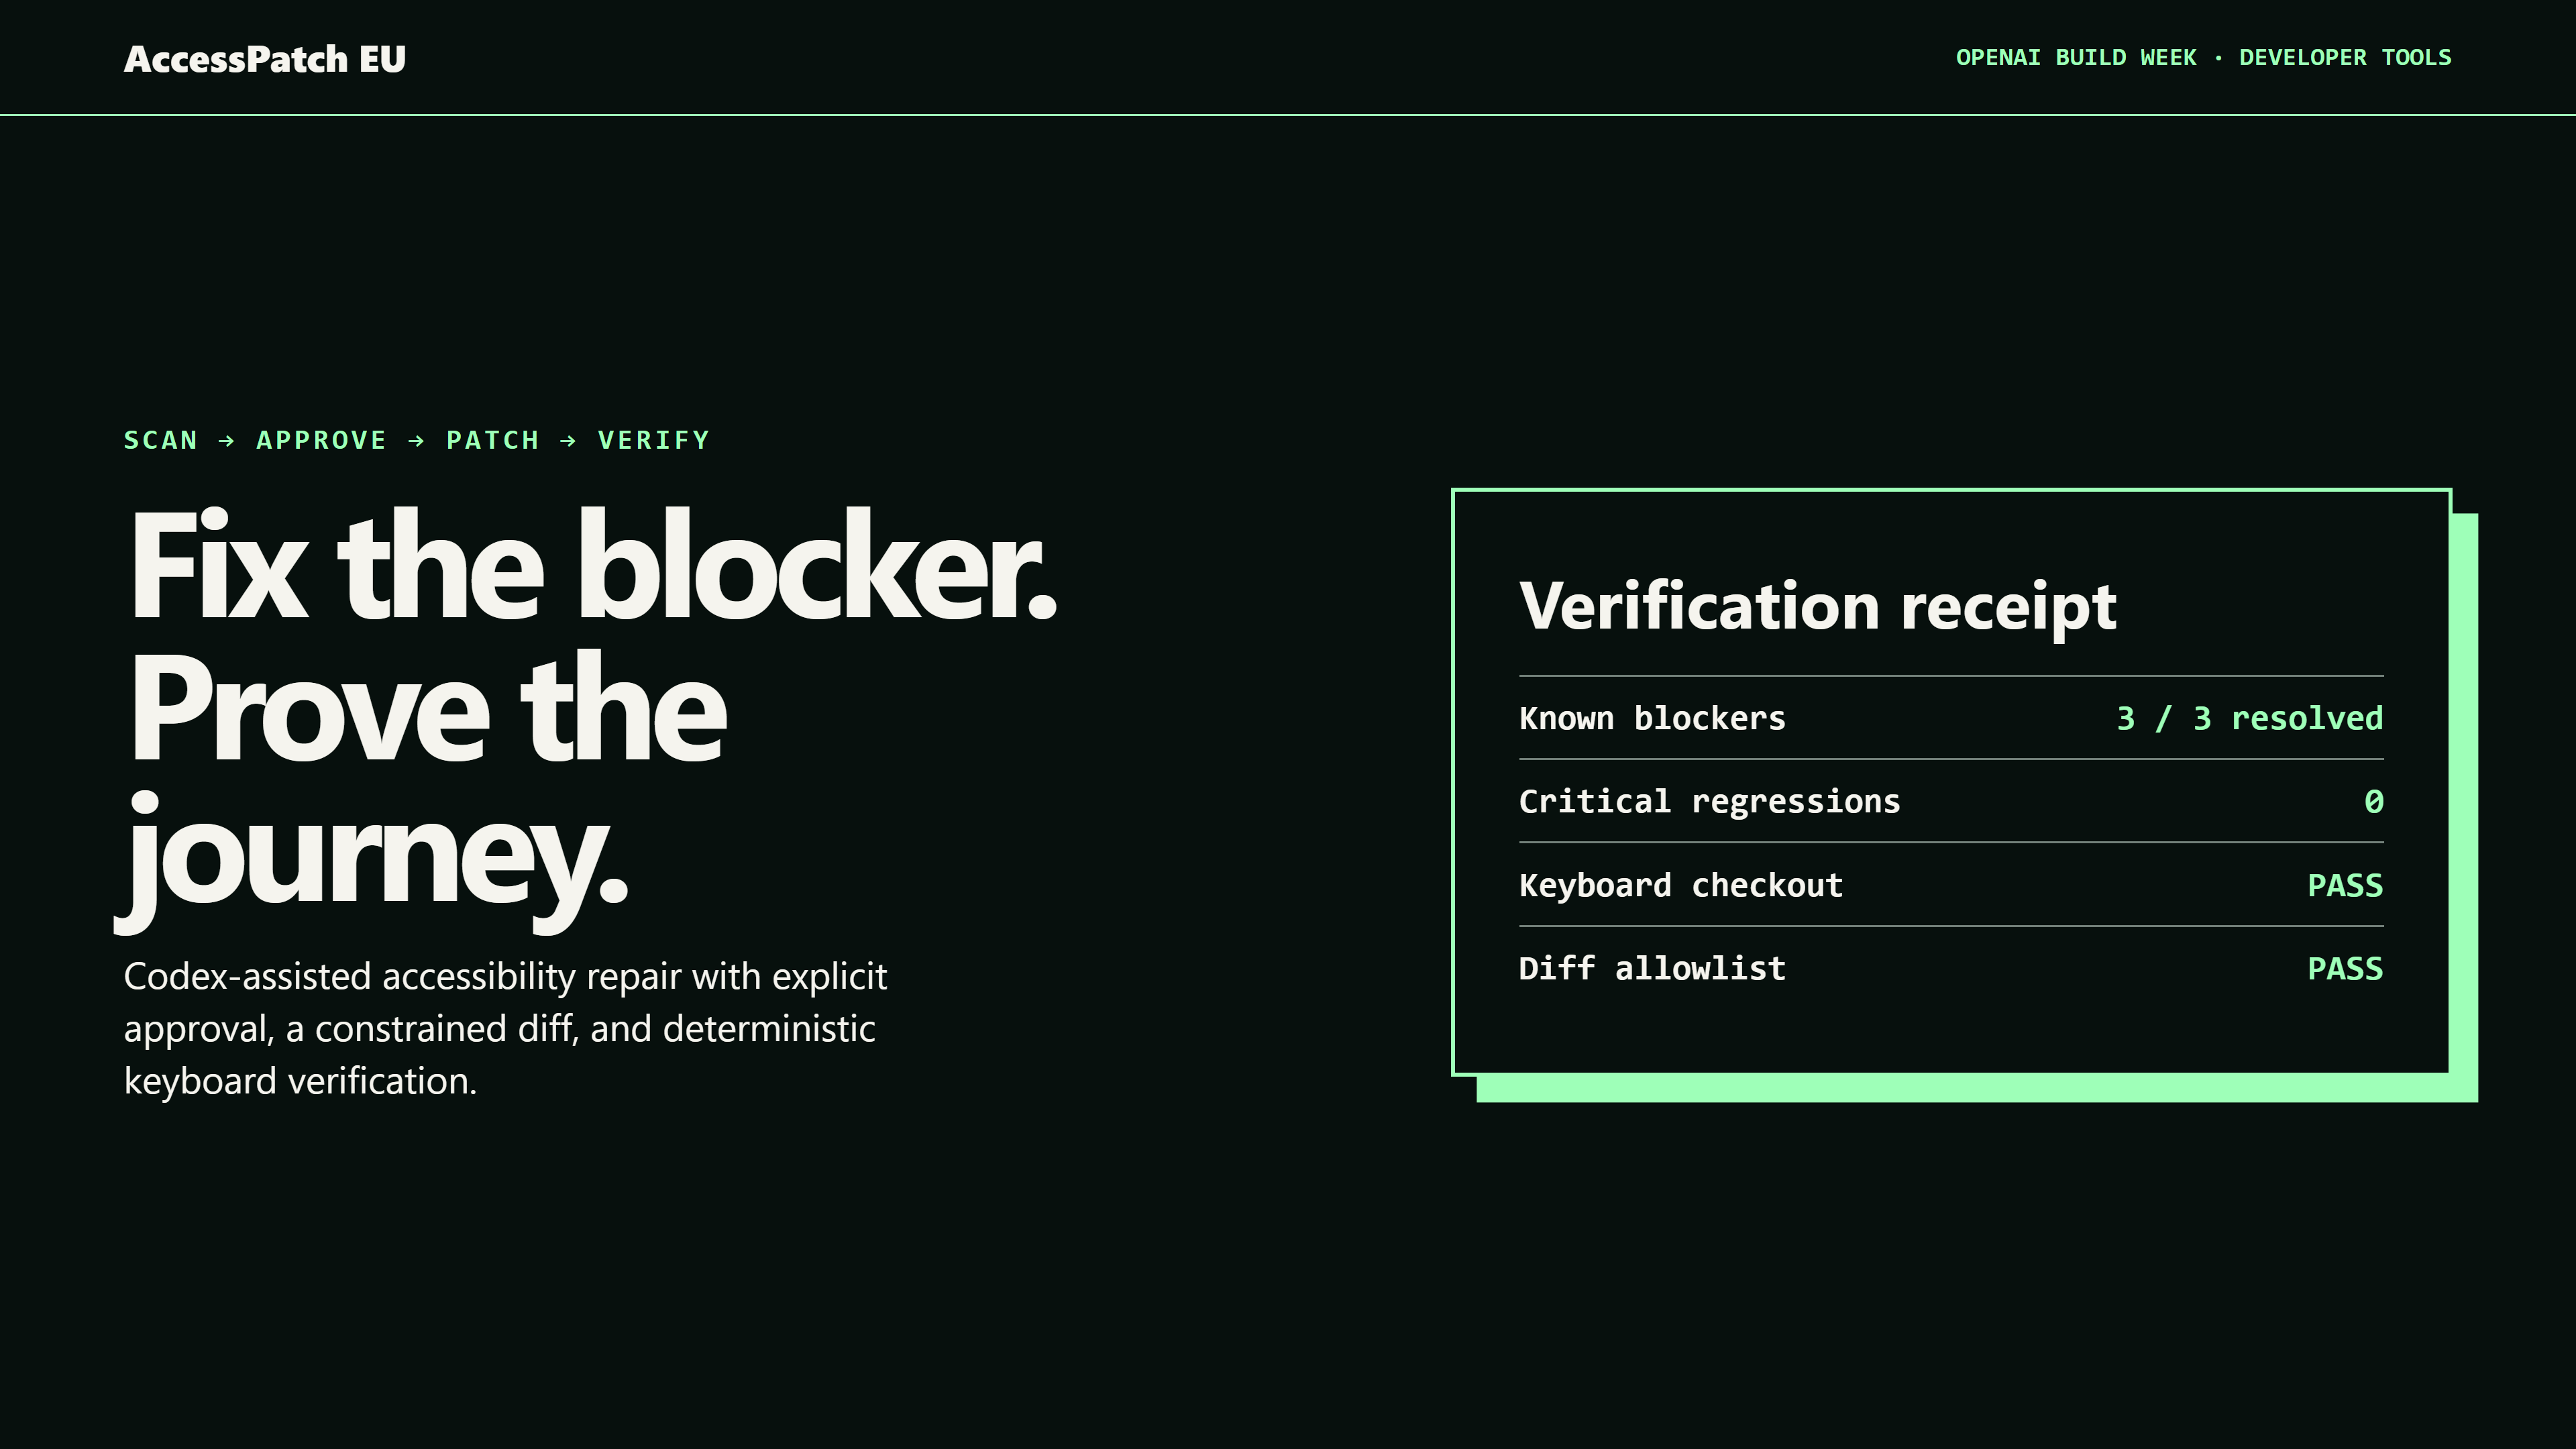
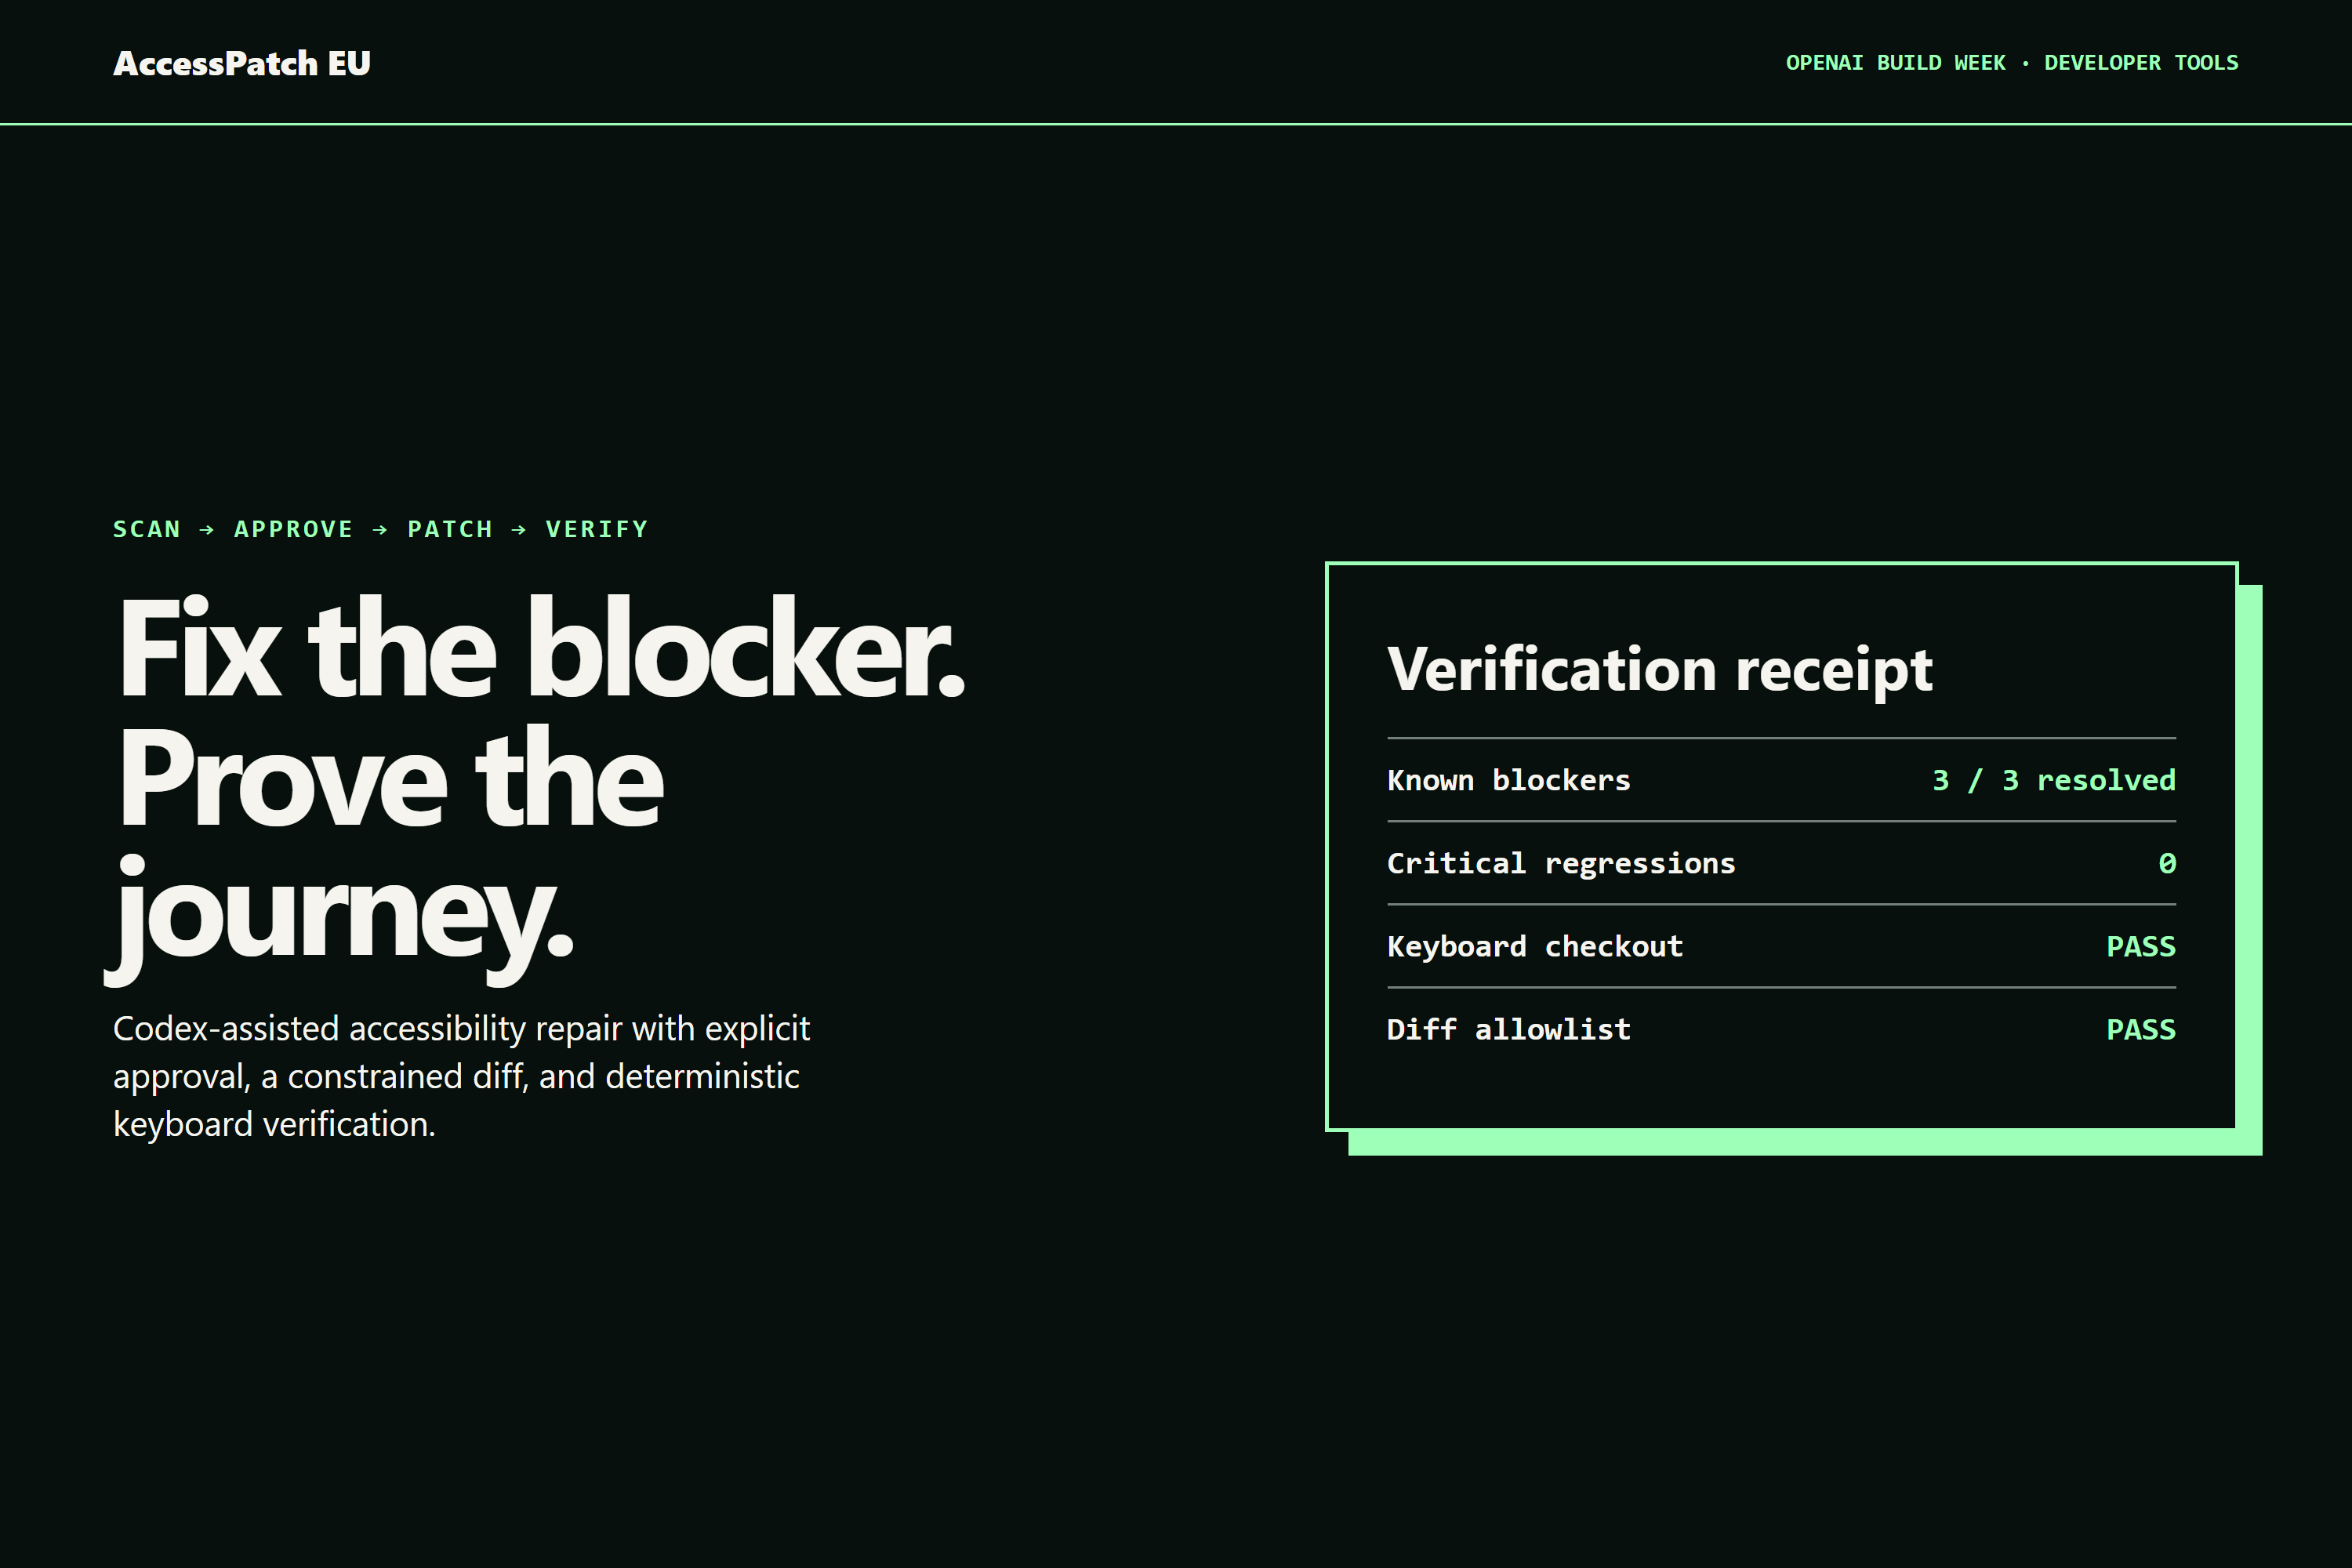
fix: harden submission preview and Linux CI

diff --git a/tests/unit/submission-check.test.ts b/tests/unit/submission-check.test.ts
@@ -95,4 +95,12 @@ Unchecked items still require the submitter's authenticated account.
       "Missing required artifact: submission/accesspatch-eu-demo.mp4",
     );
   });
+
+  it("requires the Devpost 3:2 thumbnail in the local submission package", async () => {
+    const root = await mkdtemp(path.join(os.tmpdir(), "accesspatch-submit-"));
+    roots.push(root);
+    expect(await collectSubmissionIssues(root)).toContain(
+      "Missing required artifact: submission/accesspatch-eu-thumbnail.png",
+    );
+  });
 });

diff --git a/tests/unit/paths.test.ts b/tests/unit/paths.test.ts
@@ -18,6 +18,13 @@ it("rejects a prefix collision beside the project root", () => {
 });
 
 it("rejects a path outside the project root", () => {
+  const outsideProject = path.resolve(PROJECT_ROOT, "..", "outside", "report.json");
+  expect(() =>
+    assertInsideProject(outsideProject),
+  ).toThrow(/outside project root/i);
+});
+
+it.runIf(process.platform === "win32")("rejects an absolute Windows path outside the project", () => {
   expect(() =>
     assertInsideProject("C:\\Users\\User\\Desktop\\outside\\report.json"),
   ).toThrow(/outside project root/i);

diff --git a/tests/e2e/media-contract.spec.ts b/tests/e2e/media-contract.spec.ts
@@ -48,7 +48,7 @@ test("@media submission media matches the Build Week delivery contract", async (
 
   const thumbnail = probe("submission/accesspatch-eu-thumbnail.png").streams[0];
   const thumbnailFallback = probe("submission/accesspatch-eu-thumbnail-1280x720.png").streams[0];
-  expect([thumbnail.width, thumbnail.height]).toEqual([3840, 2160]);
+  expect([thumbnail.width, thumbnail.height]).toEqual([3000, 2000]);
   expect([thumbnailFallback.width, thumbnailFallback.height]).toEqual([1280, 720]);
 
   const videoProbe = probe("submission/accesspatch-eu-demo.mp4");

diff --git a/tests/unit/docs-contract.test.ts b/tests/unit/docs-contract.test.ts
@@ -20,7 +20,7 @@ const requiredDocs = [
 ] as const;
 
 const claim =
-  "Two critical and one serious fixture blocker were resolved, no new serious or critical axe finding appeared, and the scripted keyboard checkout completed.";
+  "Two critical and one serious fixture blockers were resolved, no new serious or critical axe finding appeared, and the scripted keyboard checkout completed.";
 const limitation =
   "AccessPatch EU produces technical remediation evidence, not legal advice, certification, or a guarantee of EAA/WCAG compliance. AI-proposed patches require human review.";
 

diff --git a/tools/accesspatch/submission-check.ts b/tools/accesspatch/submission-check.ts
@@ -30,6 +30,7 @@ const REQUIRED_IMAGES = [
   ["submission/screenshots/02-evidence-pack.png", 1920, 1080],
   ["submission/screenshots/03-approved-source-diff.png", 1920, 1080],
   ["submission/screenshots/04-verified-before-after.png", 1920, 1080],
+  ["submission/accesspatch-eu-thumbnail.png", 3000, 2000],
   ["submission/accesspatch-eu-thumbnail-1280x720.png", 1280, 720],
 ] as const;
 

diff --git a/README.md b/README.md
@@ -5,13 +5,16 @@ source-bounded repair and a deterministic verification receipt.
 
 Public repository: https://github.com/jonhs22/accesspatch-eu
 
+[![CI](https://github.com/jonhs22/accesspatch-eu/actions/workflows/ci.yml/badge.svg)](https://github.com/jonhs22/accesspatch-eu/actions/workflows/ci.yml)
+
 Public demo video: https://youtu.be/K0bKkyyBVIE
 
 ## Judge quick start
 
-The deterministic judge path requires no login and no OpenAI Platform API key.
-It uses frozen local fixtures, labels approval provenance as `test_fixture`, and
-does not present fixture approval as a human decision.
+The public repository is the judge test build. The deterministic path requires
+no login and no OpenAI Platform API key. It requires no account provisioning or
+code generation, uses frozen local fixtures, labels approval provenance as
+`test_fixture`, and does not present fixture approval as a human decision.
 
 Prerequisites:
 
@@ -52,7 +55,7 @@ Open:
 - Checkout: `http://127.0.0.1:4173/checkout`
 - Evidence dashboard: `http://127.0.0.1:4173/accesspatch`
 
-Two critical and one serious fixture blocker were resolved, no new serious or critical axe finding appeared, and the scripted keyboard checkout completed.
+Two critical and one serious fixture blockers were resolved, no new serious or critical axe finding appeared, and the scripted keyboard checkout completed.
 
 ## What the demonstration proves
 
@@ -122,7 +125,7 @@ The full safety contract is in
 | `npm run typecheck` | Run strict TypeScript checking without emitting files. |
 | `npm test` | Run the Vitest unit suite. |
 | `npm run test:e2e` | Run the serial non-media Playwright end-to-end suite. |
-| `npm run test:media` | Validate the local final MP4, captions, transcript, screenshots, and thumbnail. |
+| `npm run test:media` | Producer-only validation of the local final MP4, captions, transcript, screenshots, and thumbnail. |
 | `npm run accesspatch -- scan --phase before` | Start an interactive evidence run. |
 | `npm run accesspatch -- scan --phase after` | Capture post-patch evidence. |
 | `npm run accesspatch -- verify` | Produce a deterministic verification receipt. |
@@ -130,6 +133,10 @@ The full safety contract is in
 | `npm run demo:verify` | Run the complete no-login deterministic fixture demonstration. |
 | `npm run judge` | Print the local judge path and expected result. |
 | `npm run submission:check` | Validate the local submission package. |
+
+The final MP4 is published through the public YouTube URL rather than the Git
+clone, so `test:media` and `submission:check` are producer-side packaging gates,
+not part of the clean-clone judge path.
 
 See [`docs/testing.md`](docs/testing.md) for clean-clone and CI gates.
 

diff --git a/docs/superpowers/plans/2026-07-20-accesspatch-eu.md b/docs/superpowers/plans/2026-07-20-accesspatch-eu.md
@@ -790,8 +790,8 @@ Expected: FAIL with sorted missing-artifact messages.
 Use this claim exactly:
 
 ```text
-All three known critical fixture blockers were resolved, no new critical axe
-finding appeared, and the scripted keyboard checkout completed.
+Two critical and one serious fixture blockers were resolved, no new serious or
+critical axe finding appeared, and the scripted keyboard checkout completed.
 ```
 
 Use this limitation exactly:
@@ -865,7 +865,7 @@ git commit -m "docs: prepare complete Build Week submission"
 Require:
 
 - four screenshots at 1920×1080;
-- thumbnail at 3840×2160 plus 1280×720 fallback;
+- Devpost thumbnail at 3000×2000 (3:2) plus 1280×720 fallback;
 - final video at 1920×1080, 30 fps, yuv420p, H.264, AAC stereo;
 - duration from 150 through 175 seconds;
 - non-zero English audio duration;
@@ -962,7 +962,8 @@ In a new Codex task:
 4. approve the constrained patch;
 5. verify the repaired keyboard journey;
 6. inspect the dashboard and diff; and
-7. obtain the required `/feedback` Session ID.
+7. obtain the required Session ID with the current `/status` command (the
+   Official Rules retain the older `/feedback` wording).
 
 Insert the actual ID into submission copy and rerun validation.
 

diff --git a/docs/CODEX_COLLABORATION.md b/docs/CODEX_COLLABORATION.md
@@ -31,8 +31,9 @@ test provenance, not a claim that a human approved that fixture copy.
 
 ## Feedback session
 
-Feedback session retrieval is an explicit account handoff: in the primary
-signed-in Codex task, the submitter runs `/feedback`, copies the returned
-session identifier into the Devpost submission field, and then performs the
+Session retrieval is an explicit account handoff. The Official Rules use the
+older `/feedback` wording, while the current hackathon FAQ directs submitters to
+run `/status`. In the primary signed-in Codex task, the submitter copies the
+returned session identifier into the Devpost field and then performs the
 external submit action. Repository automation cannot truthfully retrieve or
 publish that account-bound identifier.

diff --git a/docs/testing.md b/docs/testing.md
@@ -64,10 +64,10 @@ does not excuse a missing or invalid local artifact.
 | `npm run typecheck` | Strict TypeScript contracts across `src`, `tools`, tests, and build/test configuration. |
 | `npm test` | Vitest unit tests under `tests/unit/**/*.test.ts`. |
 | `npm run test:e2e` | Non-media Playwright tests under `tests/e2e` against the local Vite server. |
-| `npm run test:media` | Local MP4 stream metadata, duration, size, screenshots, thumbnail, captions, transcript, and privacy metadata. |
+| `npm run test:media` | Producer-only local MP4 stream metadata, duration, size, screenshots, thumbnail, captions, transcript, and privacy metadata. |
 | `npm run build` | The React application produces a Vite production build. |
 | `npm run demo:verify` | The complete deterministic fixture state machine passes and restores source bytes. |
-| `npm run submission:check` | Required documents/media metadata, asset coverage, unfinished copy, and secret-like text. |
+| `npm run submission:check` | Producer-only submission documents/media metadata, asset coverage, unfinished copy, and secret-like text. |
 
 ## Unit-test coverage
 

diff --git a/submission/DEVPOST.md b/submission/DEVPOST.md
@@ -25,7 +25,7 @@ verification without an account or OpenAI Platform API key. Its manifest is
 plainly labeled `deterministic_fixture` with actor `test_fixture`; it is not
 represented as human approval.
 
-Two critical and one serious fixture blocker were resolved, no new serious or critical axe finding appeared, and the scripted keyboard checkout completed.
+Two critical and one serious fixture blockers were resolved, no new serious or critical axe finding appeared, and the scripted keyboard checkout completed.
 
 ## How we built it
 

diff --git a/submission/SUBMISSION_CHECKLIST.md b/submission/SUBMISSION_CHECKLIST.md
@@ -7,7 +7,7 @@
   documented commands.
 - [x] Deterministic judge flow records `deterministic_fixture` and
   `test_fixture` provenance.
-- [x] Four 1920x1080 screenshots and a 1280x720 thumbnail are present.
+- [x] Four 1920x1080 screenshots, a 3000x2000 Devpost thumbnail, and a 1280x720 fallback are present.
 - [x] Final Devpost copy, demo script, transcript, and captions are English.
 - [x] Asset provenance is recorded in `assets/ASSET_LEDGER.md`.
 - [x] Secret and submission validators are included.

diff --git a/submission/TEST_CREDENTIALS.md b/submission/TEST_CREDENTIALS.md
@@ -8,6 +8,7 @@ account, payment provider, customer record, or live transaction. Run:
 
 ```text
 npm ci
+npx playwright install chromium
 npm run demo:verify
 npm run judge
 ```